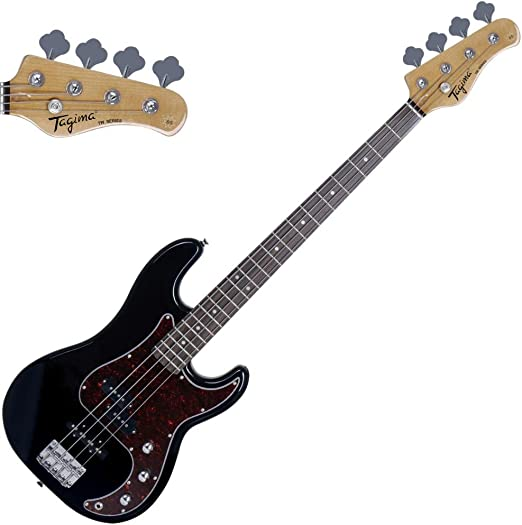
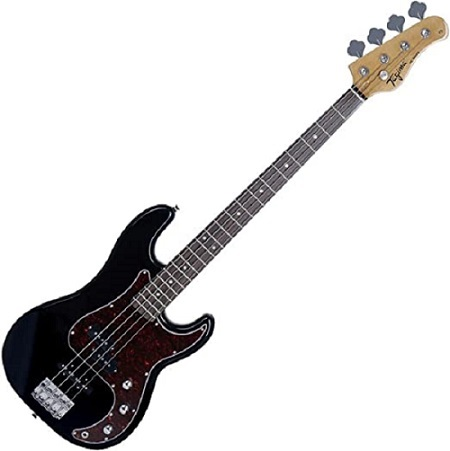
Alpha 1.0.1

diff --git a/index.html b/index.html
@@ -179,14 +179,14 @@
                     <div class="col mb-5">
                         <div class="card h-100">
                             <!-- Product image-->
-                            <img class="card-img-top" src="assets/Imagens/mercedesbenz-gle-63-amg-5.5-v8-turbo-gasolina-coupe-4matic-7gtronic-wmimagem11023734121.jpg" alt="..." />
+                            <img class="card-img-top" src="assests/Imagens/Guitarra.jpg" alt="..." />
                             <!-- Product details-->
                             <div class="card-body p-4">
                                 <div class="text-center">
                                     <!-- Product name-->
-                                    <h5 class="fw-bolder">Mercedes-Benz GLE 63 AMG</h5>
+                                    <h5 class="fw-bolder">Guitarra</h5>
                                     <!-- Product price-->
-                                    R$540.000 - R$550.000
+                                    R$2.500,00
                                 </div>
                             </div>
                             <!-- Product actions-->
